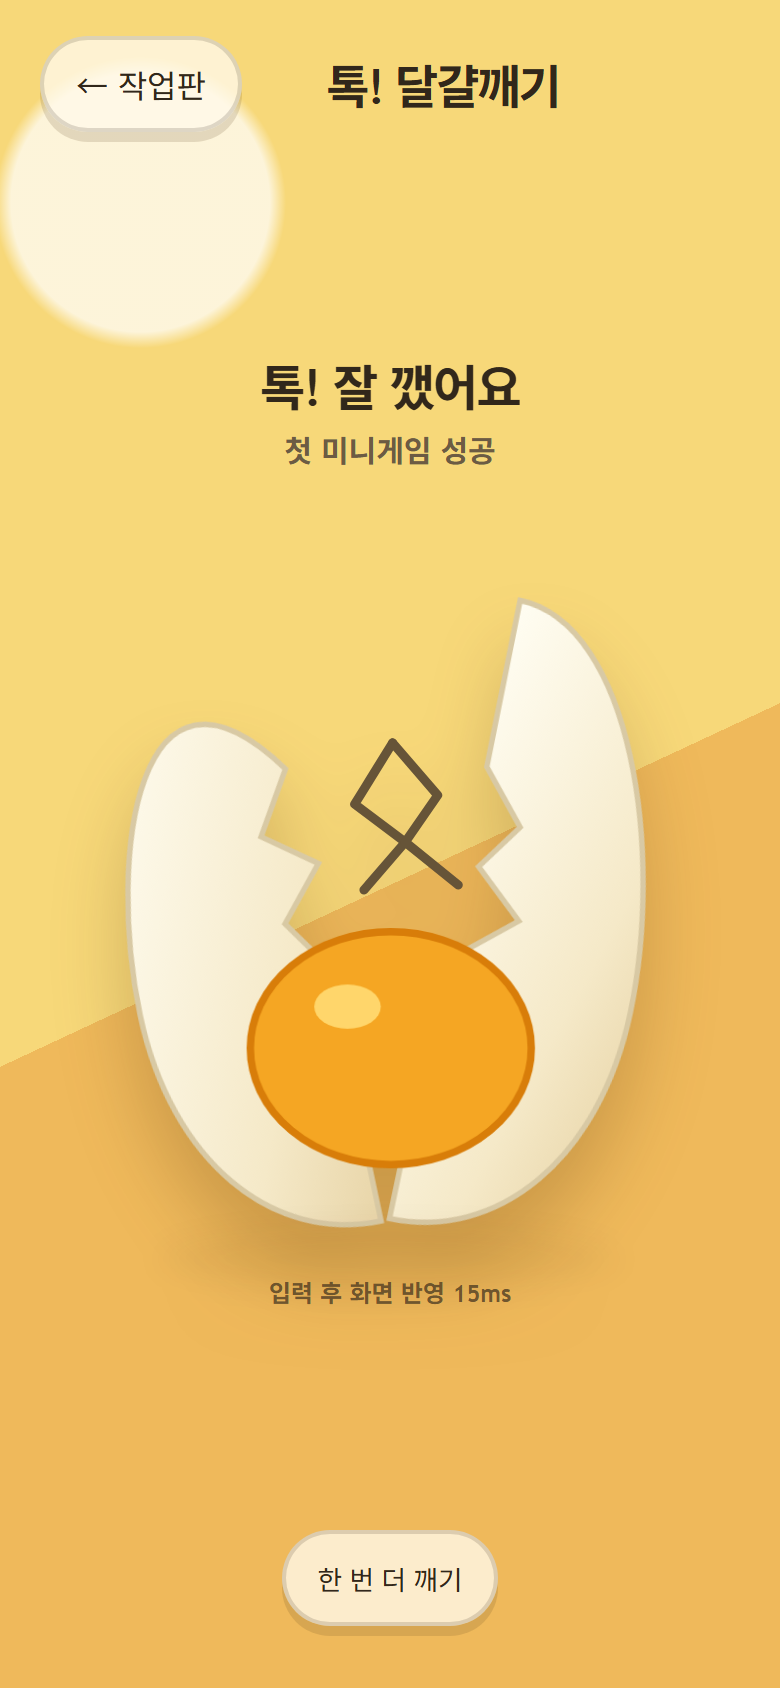
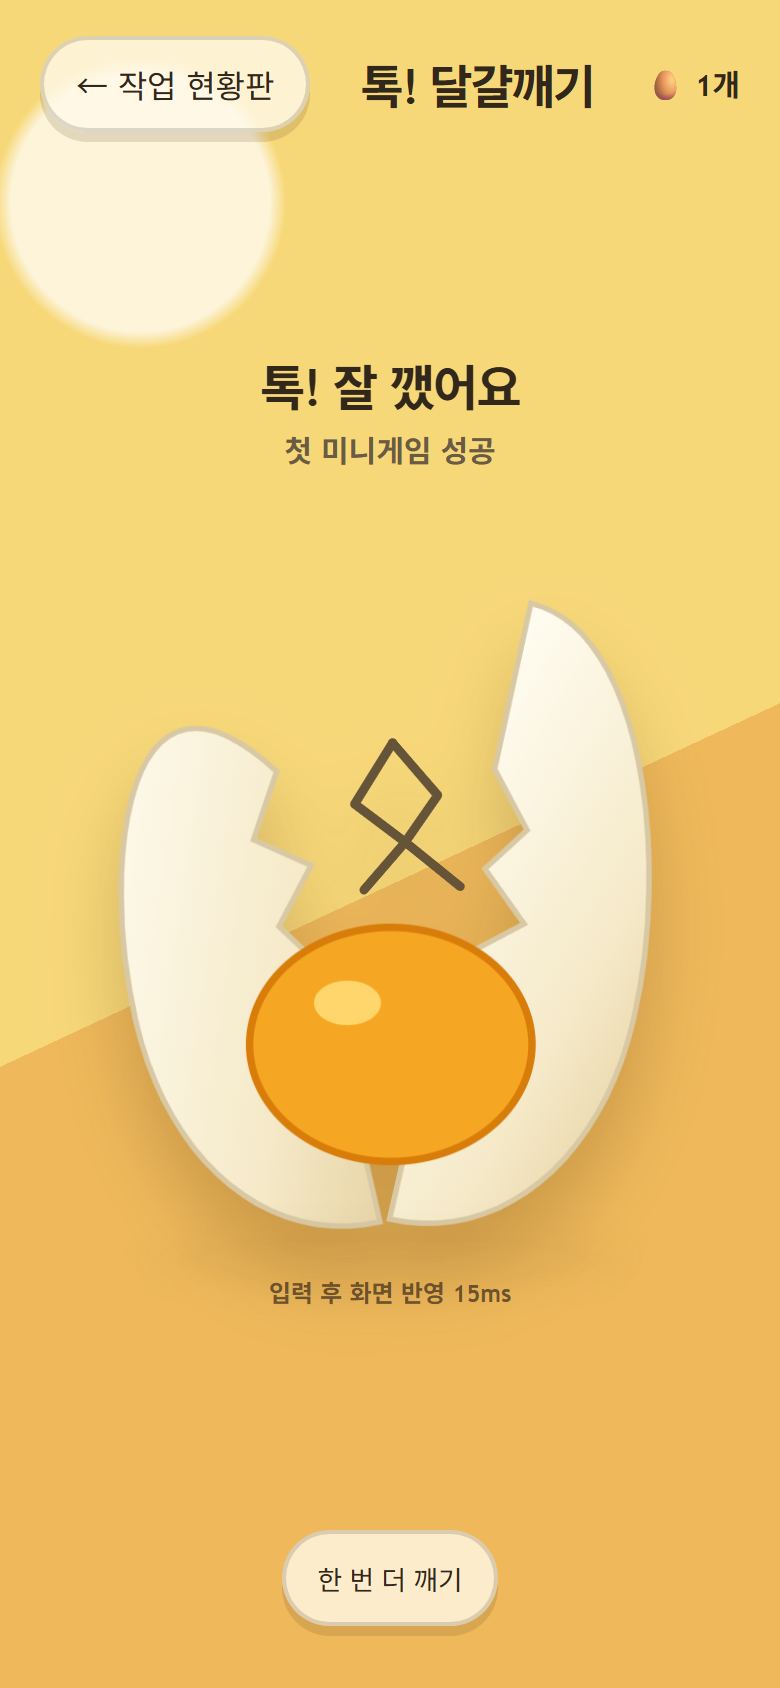
Report under the bot that did the work, and send documents from the sender we run
Three defects the owner found in one live run, all of them mine.

Codex hit quota, Claude took over, and the completion report arrived in the room
signed CodexBot. The fallback replaced the execution engine but inherited
reportBotRole from the original request, so the room credited work to an engine
that had refused it. Reporting bot now follows the engine, except for audits,
which report as AuditorBot regardless of who ran them.

Document delivery died on unsupported-document-send. sendDocument existed only on
the fetch sender while production runs the grammy one. The same asymmetry had just
caused a second, quieter failure: sendChatAction was also fetch-only, and
server.ts gated the whole heartbeat on its presence — so the progress indicator
the owner asked about four times had never started at all. Both are now
implemented on both senders, the heartbeat treats typing as optional, and a test
asserts the two senders expose the same capability set, since discovering this
asymmetry twice in one session is enough.

Board rows were being inserted into the same batch as everything else. That batch
insert fails wholesale if any row already exists, and the topic board row exists
by definition after the first message — so every later message in that topic died
with outbox-idempotency-conflict and the room went silent. Board rows now insert
individually and tolerate the conflict they are supposed to have.

Claude-Session: https://claude.ai/code/session_01MfjvmhxoKhSkTbPrYPxMMM

diff --git a/apps/bot-service/test/telegram-fetch-sender.test.ts b/apps/bot-service/test/telegram-fetch-sender.test.ts
@@ -39,7 +39,9 @@ test("grammy sender sends messages without optional reply id", async () => {
       async sendMessage() { return { message_id: 123 } as never; },
       async editMessageText() { return { message_id: 124 } as never; },
       async answerCallbackQuery() { return true; },
-      async pinChatMessage() { return true; }
+      async pinChatMessage() { return true; },
+      async sendChatAction() { return true; },
+      async sendDocument() { return { message_id: 125 } as never; }
     })
   });
   const sent = await sender.sendMessage({ botRole: "platoon_leader", telegramChatId: "1001", text: "hello" });
@@ -204,4 +206,56 @@ test("fetch sender attaches timeout signal to Telegram API calls", async () => {
 
   await sender.sendMessage({ botRole: "platoon_leader", telegramChatId: "1001", text: "hello" });
   assert.equal(signal instanceof AbortSignal, true);
+});
+
+// 라이브 결함 회귀 — 실행 중 표시가 fetch 발신기에만 있었고, 실제로 쓰는 grammy 발신기에는
+// 없었다. server.ts 가 그 유무로 하트비트 시작을 가로막아, 방에는 아무 움직임도 안 떴다.
+// 방장이 "실행 버튼 깜빡이는 게 결과 나오기 전에 멈춘다"고 네 번 제기한 것이 이 상태다.
+test("grammy sender 도 실행 중 표시를 보낼 수 있다", async () => {
+  const calls: Array<{ chatId: string; action: string }> = [];
+  const sender = createTelegramGrammySender({
+    tokenResolver: { async resolveBotToken() { return "token"; } },
+    apiFactory: () => ({
+      async sendMessage() { return { message_id: 1 } as never; },
+      async editMessageText() { return { message_id: 1 } as never; },
+      async answerCallbackQuery() { return true; },
+      async pinChatMessage() { return true; },
+      async sendChatAction(chatId: unknown, action: unknown) {
+        calls.push({ chatId: String(chatId), action: String(action) });
+        return true;
+      },
+      async sendDocument() { return { message_id: 125 } as never; }
+    })
+  });
+
+  assert.ok(sender.sendChatAction, "이 함수가 없으면 하트비트가 시작조차 안 된다");
+  await sender.sendChatAction!({ botRole: "platoon_leader", telegramChatId: "1001", action: "typing" });
+  assert.deepEqual(calls, [{ chatId: "1001", action: "typing" }]);
+});
+
+// 라이브 결함 회귀(두 번) — 실행 중 표시와 문서 업로드를 fetch 발신기에만 붙였는데, 운영이
+// 쓰는 것은 grammy 발신기였다. 첫 번째는 하트비트가 통째로 안 떴고, 두 번째는 결과물 전송이
+// unsupported-document-send 로 죽었다. 어느 쪽이 부족한지는 라이브에서야 드러났다.
+test("두 발신기가 같은 기능 집합을 갖는다", () => {
+  const tokenResolver = { async resolveBotToken() { return "token"; } };
+  const grammy = createTelegramGrammySender({
+    tokenResolver,
+    apiFactory: () => ({
+      async sendMessage() { return { message_id: 1 } as never; },
+      async editMessageText() { return { message_id: 1 } as never; },
+      async answerCallbackQuery() { return true; },
+      async pinChatMessage() { return true; },
+      async sendChatAction() { return true; },
+      async sendDocument() { return { message_id: 1 } as never; }
+    })
+  });
+  const fetchSender = createTelegramFetchSender({ tokenResolver });
+
+  const capabilities = (sender: object) => Object.keys(sender).filter((key) => typeof (sender as Record<string, unknown>)[key] === "function").sort();
+
+  assert.deepEqual(
+    capabilities(grammy),
+    capabilities(fetchSender),
+    "한쪽에만 있는 기능은 운영이 어느 발신기를 쓰느냐에 따라 있다가 없다가 한다"
+  );
 });

diff --git a/apps/bot-service/src/supabase-store.ts b/apps/bot-service/src/supabase-store.ts
@@ -167,8 +167,11 @@ export class SupabaseBotServiceStore implements OrchestratorPersistencePort, Out
     const planningHydratedRows = await this.hydrateLeaderPlanningRows(startedHydratedRows, roomId);
     const executionHydratedOutboxRows = await this.hydrateExecutionOutboxPrompts(planningHydratedRows, roomId);
     const hydratedOutboxRows = await this.hydrateTaskQueryOutboxRows(executionHydratedOutboxRows, roomId);
-    const withTopicBoard = this.withTopicBoardPin(hydratedOutboxRows, roomId);
-    const insertedOutbox = await this.insertOutboxRowsIdempotently(withTopicBoard);
+    // 현황판 행은 주제당 하나뿐이라 두 번째 메시지부터는 반드시 이미 존재한다. 아래 배치
+    // 삽입은 "행 하나라도 이미 있으면 전체 실패"라서, 같이 넣으면 그 주제의 모든 처리가
+    // 멎는다(라이브에서 outbox-idempotency-conflict 로 제안 메시지가 통째로 안 나갔다).
+    await this.ensureTopicBoardRows(hydratedOutboxRows, roomId);
+    const insertedOutbox = await this.insertOutboxRowsIdempotently(hydratedOutboxRows);
 
     return {
       events: persistedEvents.map((event) => ({ ...event, createdAt: event.createdAt ?? createdAt })),
@@ -348,8 +351,20 @@ export class SupabaseBotServiceStore implements OrchestratorPersistencePort, Out
   //
   // 한 주제에 한 번만 올린다 — 아웃박스의 idempotency_key 가 그 보증이다(같은 키는 두 번
   // 안 들어간다). 별도 표를 두고 "이미 고정했는가"를 관리하지 않는 이유이기도 하다.
-  private withTopicBoardPin(rows: OutboxInsertRow[], roomId: string): OutboxInsertRow[] {
-    if (!this.miniAppDirectLinkBaseUrl) return rows;
+  private async ensureTopicBoardRows(rows: OutboxInsertRow[], roomId: string): Promise<void> {
+    for (const row of this.buildTopicBoardRows(rows, roomId)) {
+      // 이미 있으면 그대로 둔다 — 현황판은 주제마다 하나면 된다.
+      const response = await this.client.request("POST", "/huai_outbox", {
+        body: { ...row, event_id: row.event_id ?? null },
+        prefer: "return=minimal"
+      });
+      if (response.status !== 409) await response.expectOk();
+    }
+  }
+
+  private buildTopicBoardRows(rows: OutboxInsertRow[], roomId: string): OutboxInsertRow[] {
+    // 현황판 링크를 만들 수 없으면 올릴 것도 없다.
+    if (!this.miniAppDirectLinkBaseUrl) return [];
 
     const seeded = new Set<string>();
     const boardRows: OutboxInsertRow[] = [];
@@ -381,7 +396,7 @@ export class SupabaseBotServiceStore implements OrchestratorPersistencePort, Out
       });
     }
 
-    return boardRows.length === 0 ? rows : [...boardRows, ...rows];
+    return boardRows;
   }
 
   // "작업 실행을 시작했습니다: p_032d2db2..." 처럼 내부 id 만 보여주면

diff --git a/apps/bot-service/src/outbox.ts b/apps/bot-service/src/outbox.ts
@@ -2,7 +2,7 @@ import {
   maskTelegramSensitiveText as maskSensitiveText,
   sanitizeTelegramVisibleText
 } from "../../../packages/telegram-ui/src/sanitize.js";
-import { Api, GrammyError } from "grammy";
+import { Api, GrammyError, InputFile } from "grammy";
 import { readFile } from "node:fs/promises";
 import { basename } from "node:path";
 
@@ -57,7 +57,7 @@ export type TelegramBotTokenResolver = {
   resolveBotToken(botRole: TelegramBotRole): Promise<string>;
 };
 
-type GrammyApiLike = Pick<Api, "sendMessage" | "editMessageText" | "answerCallbackQuery" | "pinChatMessage">;
+type GrammyApiLike = Pick<Api, "sendMessage" | "editMessageText" | "answerCallbackQuery" | "pinChatMessage" | "sendChatAction" | "sendDocument">;
 
 export function createTelegramGrammySender(input: {
   tokenResolver: TelegramBotTokenResolver;
@@ -92,6 +92,35 @@ export function createTelegramGrammySender(input: {
         }
       }
       return result ?? { telegramMessageId: "" };
+    },
+    // 문서 산출물 업로드. 이것도 fetch 발신기에만 있어서 라이브에서 전송이 통째로
+    // 죽었다(unsupported-document-send). 두 발신기의 기능이 어긋나면, 어느 쪽을 쓰는지에
+    // 따라 기능이 있다가 없다가 한다.
+    async sendDocument(request) {
+      const api = await resolveApi(request.botRole);
+      try {
+        const message = await api.sendDocument(
+          request.telegramChatId,
+          new InputFile(request.documentPath),
+          stripUndefined({
+            message_thread_id: optionalNumericMessageId(request.messageThreadId),
+            caption: request.caption?.slice(0, 1024)
+          })
+        );
+        return { telegramMessageId: String(message.message_id), raw: message };
+      } catch (error) {
+        throw normalizeTelegramError(error);
+      }
+    },
+    // 실행 중 표시. 이게 grammy 발신기에 없어서 하트비트가 통째로 시작되지 못했고,
+    // 방에는 아무 움직임도 안 떴다(라이브에서 방장이 네 번 제기했다).
+    async sendChatAction(request) {
+      const api = await resolveApi(request.botRole);
+      try {
+        await api.sendChatAction(request.telegramChatId, request.action);
+      } catch {
+        // 표시가 안 되는 것은 작업 자체를 막을 이유가 아니다.
+      }
     },
     async pinMessage(request) {
       const api = await resolveApi(request.botRole);

diff --git a/packages/supabase-runtime/test/automatic-audit.test.ts b/packages/supabase-runtime/test/automatic-audit.test.ts
@@ -1,6 +1,6 @@
 import assert from "node:assert/strict";
 import test from "node:test";
-import { SupabaseOutboxStore, auditProducedNoVerdict, buildSingleWorkerAuditPrompt, engineActorName, gatewayFailureEvidence, nextEngineAfter, producedRealArtifacts, realArtifactPaths, shouldFallbackToOtherEngine } from "../src/index.js";
+import { SupabaseOutboxStore, auditProducedNoVerdict, reportBotRoleForAdapter, buildSingleWorkerAuditPrompt, engineActorName, gatewayFailureEvidence, nextEngineAfter, producedRealArtifacts, realArtifactPaths, shouldFallbackToOtherEngine } from "../src/index.js";
 import { AI_ADAPTER_TYPES, type GatewayEvent } from "../../contracts/src/index.js";
 
 // 자동 검증 기준: 이 실행이 실제로 무언가를 만들거나 고쳤는가.
@@ -304,4 +304,15 @@ test("도구가 막혀 아무것도 못 본 감사는 판정으로 치지 않는
 test("실제 판정이 담긴 감사는 그대로 받는다", () => {
   assert.equal(auditProducedNoVerdict("판정: 통과. 지시한 줄이 그 위치에 그대로 있고 다른 줄은 그대로다."), false);
   assert.equal(auditProducedNoVerdict("판정: 불합격. README.md 89행이 지시와 다르다."), false);
+});
+
+// 라이브 결함 회귀 — Codex 한도 초과로 ClaudeBot 이 이어받아 작업했는데, 완료 보고는
+// CodexBot 이름으로 방에 떴다. 폴백이 실행 엔진만 바꾸고 보고자는 원래 값을 물려받았다.
+// 방장이 "이런 엉터리가 어디 있냐"고 지적한 화면이다.
+test("작업이 넘어가면 보고하는 봇도 같이 바뀐다", () => {
+  assert.equal(reportBotRoleForAdapter("claude_code"), "claude_leader");
+  assert.equal(reportBotRoleForAdapter("codex"), "codex_leader");
+  // antigravity 는 자기 봇이 없다. 방에 나가는 문구가 AntigravityBot 이라고 밝히므로
+  // 발신 봇만 빌려 쓴다.
+  assert.equal(reportBotRoleForAdapter("antigravity"), "claude_leader");
 });

diff --git a/supabase/miniapp-web/egg-game.html b/supabase/miniapp-web/egg-game.html
@@ -59,6 +59,12 @@
   .back:active, .reset:active { transform: translateY(2px) scale(.97); }
   .back:focus-visible, .reset:focus-visible, .egg-button:focus-visible { outline: 4px solid #175a62; outline-offset: 4px; }
   .title { margin: 0; font-size: clamp(20px, 6vw, 30px); letter-spacing: -.04em; }
+  .score {
+    min-width: 48px;
+    text-align: right;
+    font: 700 15px/1 "Trebuchet MS", "Apple SD Gothic Neo", sans-serif;
+    color: var(--ink);
+  }
   .stage { min-height: 0; display: grid; place-items: center; align-content: center; }
   .prompt { margin: 12px 0 4px; font-size: clamp(21px, 6.3vw, 34px); letter-spacing: -.035em; }
   .sub { min-height: 25px; margin: 0 0 8px; color: var(--muted); font: 700 15px/1.6 "Trebuchet MS", "Apple SD Gothic Neo", sans-serif; }
@@ -120,7 +126,7 @@
   <header class="topbar">
     <a class="back" href="./index.html" aria-label="작업 현황판으로 돌아가기">← 작업 현황판</a>
     <h1 class="title">톡! 달걀깨기</h1>
-    <span aria-hidden="true" style="width:48px"></span>
+    <span class="score" id="score" aria-live="polite">🥚 0개</span>
   </header>
   <section class="stage" aria-labelledby="prompt">
     <h2 class="prompt" id="prompt">달걀을 톡 건드려요</h2>
@@ -152,7 +158,9 @@
   var sub = document.getElementById("sub");
   var reset = document.getElementById("reset");
   var latency = document.getElementById("latency");
+  var score = document.getElementById("score");
   var stage = 0;
+  var crackedCount = 0;
   var ignoreClickUntil = 0;
   var audioContext = null;
 
@@ -195,6 +203,8 @@
       egg.setAttribute("aria-label", "달걀이 깨진 상태");
       reset.hidden = false;
       if (navigator.vibrate) navigator.vibrate(22);
+      crackedCount += 1;
+      score.textContent = "🥚 " + crackedCount + "개";
     }
     requestAnimationFrame(function () {
       var elapsed = Math.max(0, Math.round(performance.now() - startedAt));

diff --git a/packages/supabase-runtime/src/index.ts b/packages/supabase-runtime/src/index.ts
@@ -260,7 +260,16 @@ export class SupabaseOutboxStore {
       target_kind: "local_gateway",
       target: JSON.stringify({ kind: "local_gateway", gatewayId }),
       payload: {
-        executionRequest: { ...request, attemptId, adapterType: fallbackAdapter, idempotencyKey: "engine-fallback:" + attemptId },
+        executionRequest: {
+          ...request,
+          attemptId,
+          adapterType: fallbackAdapter,
+          // 보고자도 같이 바꾼다. 엔진만 바꾸면 ClaudeBot 이 한 작업을 CodexBot 이름으로
+          // 보고한다 — 라이브에서 방장이 "엉터리"라고 지적한 그 화면이다. 감사 보고는
+          // 엔진과 무관하게 AuditorBot 이 내므로 그대로 둔다.
+          reportBotRole: isAudit ? request.reportBotRole : reportBotRoleForAdapter(fallbackAdapter),
+          idempotencyKey: "engine-fallback:" + attemptId
+        },
         telegramChatId
       },
       room_id: request.roomId
@@ -1226,6 +1235,13 @@ export function nextEngineAfter(
 }
 
 // 방에 올리는 이름. 사람은 adapterType 을 읽지 않는다.
+// 어느 봇 이름으로 방에 보고할지. 실제로 일한 엔진과 맞아야 한다.
+export function reportBotRoleForAdapter(adapterType: AiAdapterType): "claude_leader" | "codex_leader" {
+  // antigravity 는 아직 자기 봇이 없다. 방에 나가는 문구는 engineActorName 이 정확히
+  // 밝히므로(AntigravityBot), 발신 봇만 claude_leader 를 빌려 쓴다.
+  return adapterType === "codex" ? "codex_leader" : "claude_leader";
+}
+
 export function engineActorName(adapterType: AiAdapterType): string {
   if (adapterType === "codex") return "CodexBot";
   if (adapterType === "antigravity") return "AntigravityBot";

diff --git a/apps/bot-service/src/server.ts b/apps/bot-service/src/server.ts
@@ -145,13 +145,16 @@ function maybeStartExecutionHeartbeat(
   if (!runtime.inFlightExecutions || env.BOT_SERVICE_EXECUTION_HEARTBEAT_ENABLED === "false") return undefined;
 
   const sender = createTelegramRuntimeSender(env);
-  if (!sender.sendChatAction) return undefined;
 
   return startExecutionHeartbeatLoop({
     // Telegram 의 입력 표시는 약 5초 뒤 사라진다. 그보다 짧게 보내야 끊기지 않는다.
     intervalMs: parsePositiveInteger(env.BOT_SERVICE_EXECUTION_HEARTBEAT_MS ?? "4000", "BOT_SERVICE_EXECUTION_HEARTBEAT_MS"),
     listInFlightExecutions: () => runtime.inFlightExecutions!.listInFlightExecutions(),
-    sendTypingAction: (telegramChatId) => sender.sendChatAction!({ botRole: "platoon_leader", telegramChatId, action: "typing" }),
+    // 입력중 표시는 있으면 쓰고 없으면 건너뛴다. 경과 시간 메시지가 본체이므로, 이것 때문에
+    // 하트비트 전체를 멈추지 않는다 — 실제로 그렇게 막혀 아무 표시도 안 나갔다.
+    sendTypingAction: async (telegramChatId) => {
+      await sender.sendChatAction?.({ botRole: "platoon_leader", telegramChatId, action: "typing" });
+    },
     async sendProgressMessage(telegramChatId, text, messageThreadId) {
       const result = await sender.sendMessage({ botRole: "platoon_leader", telegramChatId, messageThreadId, text });
       return result.telegramMessageId;

diff --git a/supabase/miniapp-web/egg-crack-sound-game.html b/supabase/miniapp-web/egg-crack-sound-game.html
@@ -19,6 +19,15 @@
   }
   h1 { color: #6b4a1f; font-size: 22px; margin-bottom: 6px; }
   p { color: #8a6a35; font-size: 14px; margin-top: 0; }
+  #score {
+    position: fixed;
+    top: 12px;
+    left: 50%;
+    transform: translateX(-50%);
+    font-size: 16px;
+    font-weight: 700;
+    color: #6b4a1f;
+  }
   #egg {
     font-size: 140px;
     line-height: 1;
@@ -43,6 +52,7 @@
 </style>
 </head>
 <body>
+<div id="score" aria-live="polite">🥚 0개</div>
 <main>
   <h1>달걀을 클릭하면 깨져요</h1>
   <p id="msg">달걀을 클릭(탭)해보세요</p>
@@ -54,7 +64,9 @@
   var egg = document.getElementById("egg");
   var msg = document.getElementById("msg");
   var reset = document.getElementById("reset");
+  var score = document.getElementById("score");
   var stage = 0;
+  var crackedCount = 0;
   var audioCtx = null;
 
   function playCrackSound() {
@@ -102,6 +114,8 @@
       egg.className = "broken";
       msg.textContent = "짜잔! 달걀이 깨졌어요";
       reset.style.display = "inline-block";
+      crackedCount += 1;
+      score.textContent = "🥚 " + crackedCount + "개";
     }
   });
 
